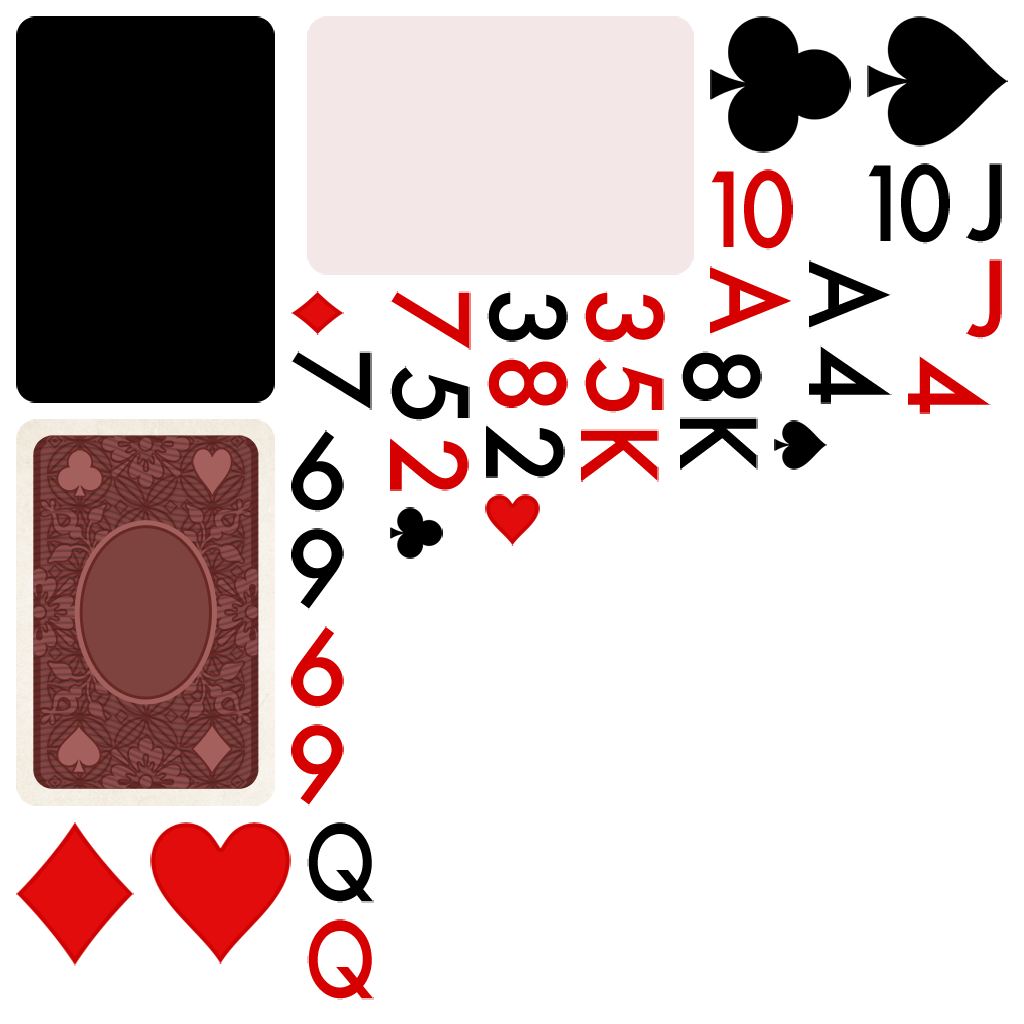
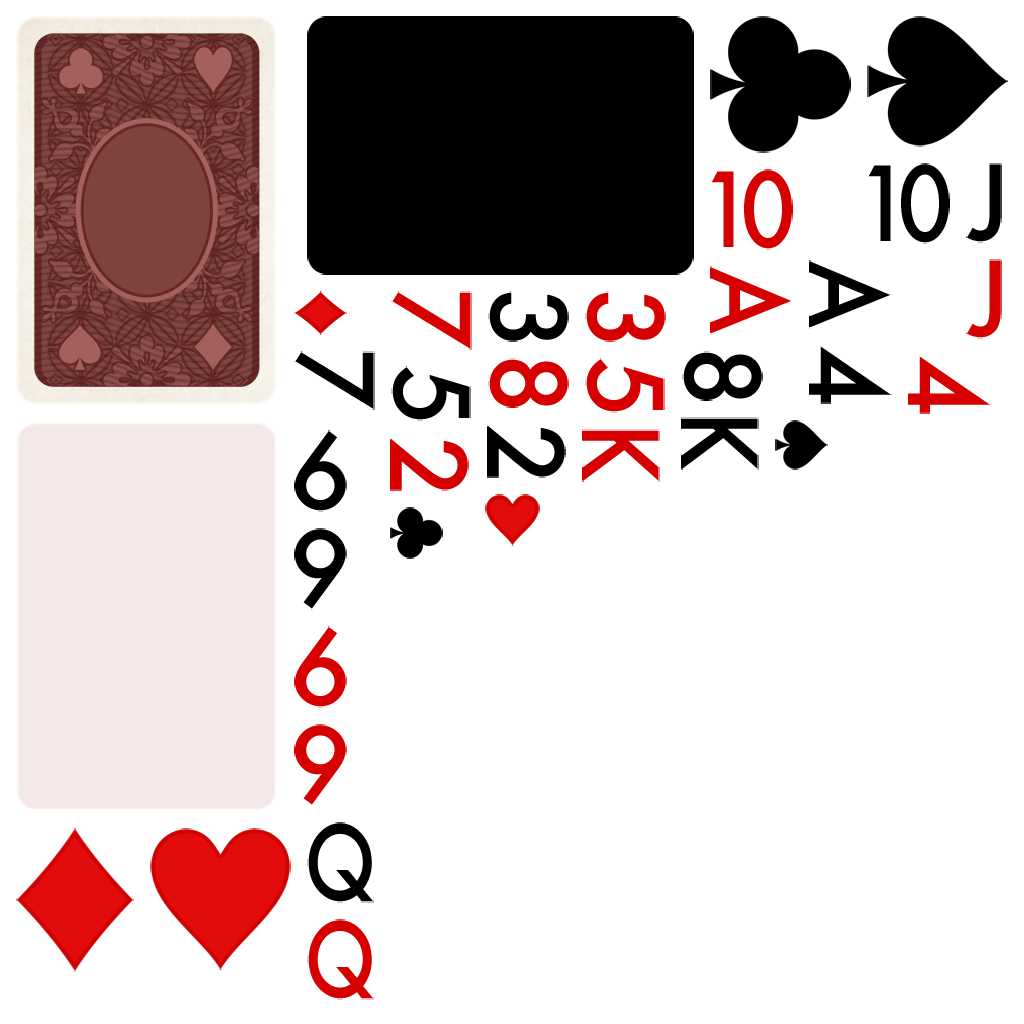
cards blur on edges

diff --git a/examples/flip/cards.js b/examples/flip/cards.js
@@ -30,7 +30,8 @@ camera.onZOrder = function(innerOrShadow) {
 };
 
 var blurFilter = new PIXI.filters.BlurFilter();
-blurFilter.blur = 10;
+blurFilter.blur = 0.2;
+
 
 function CardSprite() {
     PIXI.Container3d.call(this);
@@ -39,10 +40,10 @@ function CardSprite() {
     //shadow will be under card
     this.shadow = new PIXI.Sprite3d(tex["black.png"]);
     this.shadow.anchor.set(0.5);
-    this.shadow.scale.set(1.0);
+    this.shadow.scale.set(0.98);
     this.shadow.alpha = 0.7;
     //TRY IT WITH FILTER:
-    // this.shadow.filters = [blurFilter];
+    this.shadow.filters = [blurFilter];
     //all shadows are UNDER all cards
     this.shadow.zIndex = 1;
     this.inner = new PIXI.Container3d();
@@ -53,7 +54,7 @@ function CardSprite() {
     this.addChild(this.shadow);
     this.addChild(this.inner);
 
-    this.back = new PIXI.Sprite3d(tex["cover.png"]);
+    this.back = new PIXI.Sprite3d(tex["cover1.png"]);
     this.back.anchor.set(0.5);
     this.face = new PIXI.Container3d();
     this.code = 0;
@@ -71,7 +72,7 @@ CardSprite.prototype.createFace = function() {
     var code = this.showCode;
     var num = code & 0xf;
     var suit = code >> 4;
-    var sprite = new PIXI.Sprite3d(tex['white.png']);
+    var sprite = new PIXI.Sprite3d(tex['white1.png']);
     var sprite2 = new PIXI.Sprite3d(num > 0 ? tex[suit % 2 + "_" + num + ".png"]: PIXI.Texture.EMPTY);
     var sprite3 = new PIXI.Sprite3d(suit !== 0 ? tex[suit + "_big.png"] : PIXI.Texture.EMPTY);
     var sprite4 = new PIXI.Sprite3d(suit !== 0 ? tex[suit + "_small.png"] : PIXI.Texture.EMPTY);
